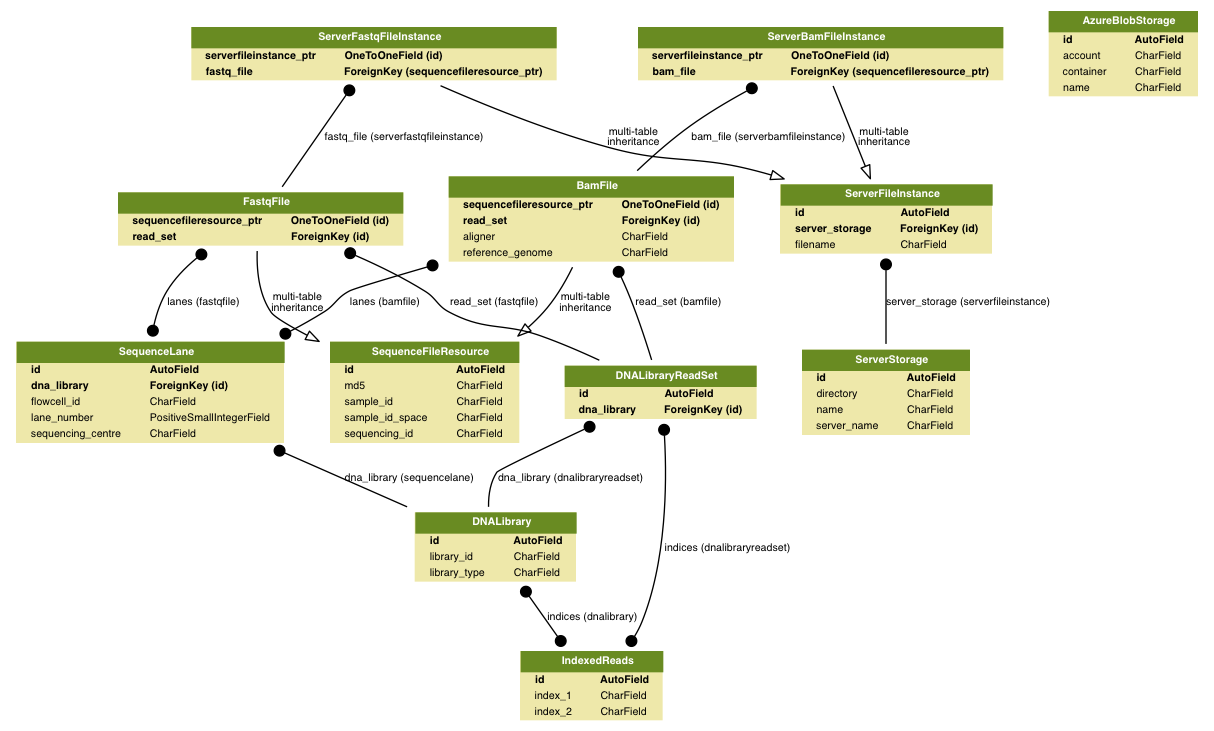
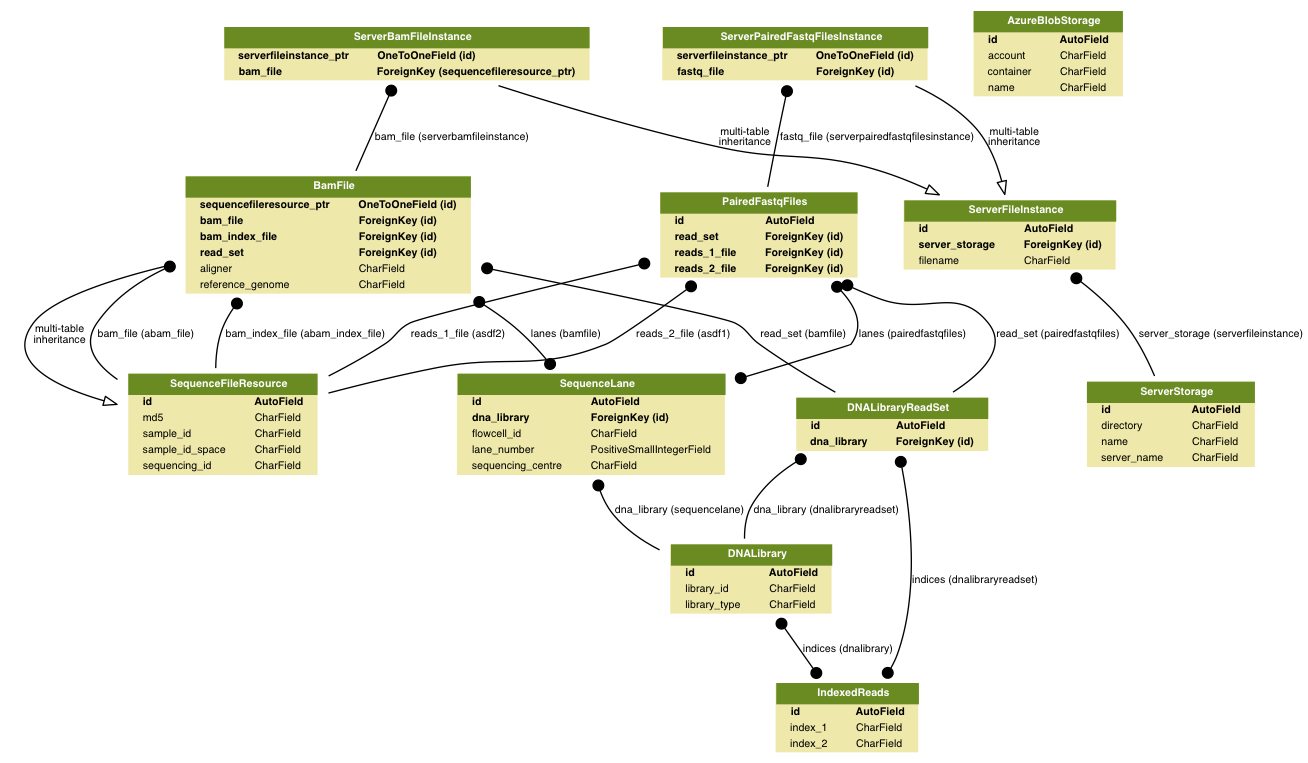
model changes

diff --git a/tantalus/models.py b/tantalus/models.py
@@ -171,7 +171,7 @@ class SequenceLane(models.Model):
         return '{}_{}_{}'.format(self.sequencing_centre, self.flowcell_id, self.lane_number)
 
 
-class FastqFile(SequenceFileResource):
+class PairedFastqFiles(models.Model):
     """
     Fastq file of Illumina Sequencing.
     """
@@ -187,6 +187,18 @@ class FastqFile(SequenceFileResource):
     read_set = models.ForeignKey(
         DNALibraryReadSet,
         on_delete=models.CASCADE,
+    )
+
+    reads_1_file = models.ForeignKey(
+        SequenceFileResource,
+        on_delete=models.CASCADE,
+        related_name='asdf2',
+    )
+
+    reads_2_file = models.ForeignKey(
+        SequenceFileResource,
+        on_delete=models.CASCADE,
+        related_name='asdf1',
     )
 
     def __unicode__(self):
@@ -230,6 +242,18 @@ class BamFile(SequenceFileResource):
     read_set = models.ForeignKey(
         DNALibraryReadSet,
         on_delete=models.CASCADE,
+    )
+
+    bam_file = models.ForeignKey(
+        SequenceFileResource,
+        on_delete=models.CASCADE,
+        related_name='abam_file',
+    )
+
+    bam_index_file = models.ForeignKey(
+        SequenceFileResource,
+        on_delete=models.CASCADE,
+        related_name='abam_index_file',
     )
 
     def __unicode__(self):
@@ -333,7 +357,7 @@ class ServerBamFileInstance(ServerFileInstance):
     )
 
 
-class ServerFastqFileInstance(ServerFileInstance):
+class ServerPairedFastqFilesInstance(ServerFileInstance):
     """
     Instance of a sequence file.
     """
@@ -341,7 +365,7 @@ class ServerFastqFileInstance(ServerFileInstance):
     history = HistoricalRecords()
 
     fastq_file = models.ForeignKey(
-        FastqFile,
+        PairedFastqFiles,
         on_delete=models.CASCADE,
     )
 

diff --git a/tantalus/api/views.py b/tantalus/api/views.py
@@ -18,9 +18,9 @@ class SequenceLaneViewSet(viewsets.ModelViewSet):
     serializer_class = tantalus.api.serializers.SequenceLaneSerializer
 
 
-class FastqFileViewSet(viewsets.ModelViewSet):
-    queryset = tantalus.models.FastqFile.objects.all()
-    serializer_class = tantalus.api.serializers.FastqFileSerializer
+class PairedFastqFilesViewSet(viewsets.ModelViewSet):
+    queryset = tantalus.models.PairedFastqFiles.objects.all()
+    serializer_class = tantalus.api.serializers.PairedFastqFilesSerializer
 
 
 class BamFileViewSet(viewsets.ModelViewSet):
@@ -43,9 +43,9 @@ class ServerBamFileInstanceViewSet(viewsets.ModelViewSet):
     serializer_class = tantalus.api.serializers.ServerBamFileInstanceSerializer
 
 
-class ServerFastqFileInstanceViewSet(viewsets.ModelViewSet):
-    queryset = tantalus.models.ServerFastqFileInstance.objects.all()
-    serializer_class = tantalus.api.serializers.ServerFastqFileInstanceSerializer
+class ServerPairedFastqFilesInstanceViewSet(viewsets.ModelViewSet):
+    queryset = tantalus.models.ServerPairedFastqFilesInstance.objects.all()
+    serializer_class = tantalus.api.serializers.ServerPairedFastqFilesInstanceSerializer
 
 
 

diff --git a/tantalus/api/urls.py b/tantalus/api/urls.py
@@ -7,12 +7,12 @@ router = routers.DefaultRouter()
 router.register(r'sequence_file_resource', views.SequenceFileResourceViewSet)
 router.register(r'indexed_reads', views.IndexedReadsViewSet)
 router.register(r'sequence_lane', views.SequenceLaneViewSet)
-router.register(r'fastq_file', views.FastqFileViewSet)
+router.register(r'fastq_file', views.PairedFastqFilesViewSet)
 router.register(r'bam_file', views.BamFileViewSet)
 router.register(r'server_storage', views.ServerStorageViewSet)
 router.register(r'azure_blob_storage', views.AzureBlobStorageViewSet)
 router.register(r'server_bam_file_instance', views.ServerBamFileInstanceViewSet)
-router.register(r'server_fastq_file_instance', views.ServerFastqFileInstanceViewSet)
+router.register(r'server_fastq_file_instance', views.ServerPairedFastqFilesInstanceViewSet)
 
 urlpatterns = [
     url(r'^', include(router.urls)),

diff --git a/tantalus/api/serializers.py b/tantalus/api/serializers.py
@@ -20,9 +20,9 @@ class SequenceLaneSerializer(serializers.HyperlinkedModelSerializer):
         fields = '__all__'
 
 
-class FastqFileSerializer(serializers.HyperlinkedModelSerializer):
+class PairedFastqFilesSerializer(serializers.HyperlinkedModelSerializer):
     class Meta:
-        model = tantalus.models.FastqFile
+        model = tantalus.models.PairedFastqFiles
         fields = '__all__'
 
 
@@ -50,9 +50,9 @@ class ServerBamFileInstanceSerializer(serializers.HyperlinkedModelSerializer):
         fields = '__all__'
 
 
-class ServerFastqFileInstanceSerializer(serializers.HyperlinkedModelSerializer):
+class ServerPairedFastqFilesInstanceSerializer(serializers.HyperlinkedModelSerializer):
     class Meta:
-        model = tantalus.models.ServerFastqFileInstance
+        model = tantalus.models.ServerPairedFastqFilesInstance
         fields = '__all__'
 
 
